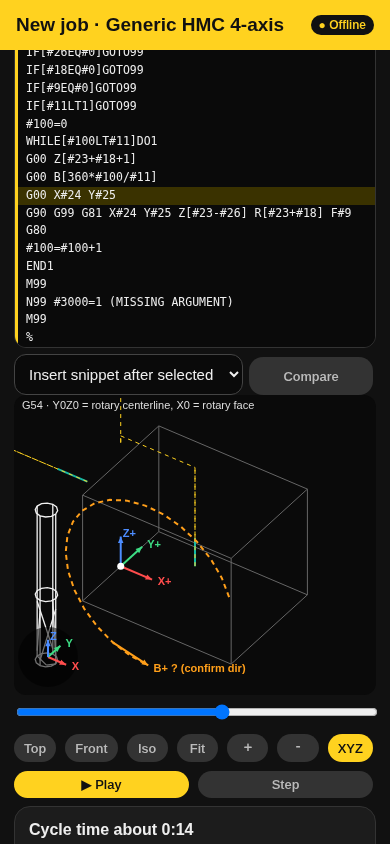
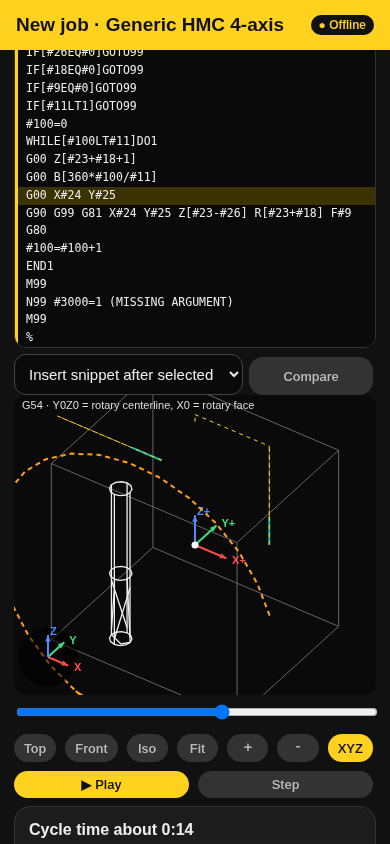
HMC: B-axis stock centered on Y rotary axis, no Z0 shift for index jobs, B out-of-stock check; gizmo shows end-on axes as dots

diff --git a/index.html b/index.html
@@ -228,7 +228,7 @@ function scrub(n){view.n=n;const s=$('#sc');if(s)s.value=n;draw();hl()}
 function play(){clearInterval(pl);let n=0;pl=setInterval(()=>{if(n>=J.M.length)return clearInterval(pl);scrub(++n)},Math.max(15,4000/J.M.length))}
 function step(){clearInterval(pl);scrub(view.n>=J.M.length?1:view.n+1)}
 
-function shiftZero(j,g){const v=k=>j.p[k]?j.p[k].v:0,o=j.lathe?[0,0,v('Z0')]:[v('Center X')||v('Start X')||0,v('Center Y')||v('Start Y')||0,v('Z0')];
+function shiftZero(j,g){if(j.op=='index')return;const v=k=>j.p[k]?j.p[k].v:0,o=j.lathe?[0,0,v('Z0')]:[v('Center X')||v('Start X')||0,v('Center Y')||v('Start Y')||0,v('Z0')];
  g.moves.forEach(m=>{m.a=m.a.map((x,i)=>x+o[i]);m.b=m.b.map((x,i)=>x+o[i])});j.stock=j.stock.map((x,i)=>x+o[i%3]);if(j.lb)j.lb={...j.lb,z:j.lb.z+o[2],L:j.lb.L-o[2]}}
 
 // ---------- Macro B interpreter (runs the edited text) — generic subset
@@ -301,7 +301,7 @@ function interp(lines,o){o=o||{};const lathe=o.lathe,M=[],alarms=[],V={};const R
 const LET=Object.fromEntries(Object.entries(ARG).map(([k,v])=>[v,k]));
 function refresh(){const st=J.stock;let r;try{r=interp(txt(),{lathe:J.lathe,start:(J.moves[0]||{a:[0,0,2]}).a,contact:mkContact(J)})}catch(e){r={moves:[],alarms:[],err:e.message}}
  J.run=r;J.M=r.err||!r.moves.length?J.moves:r.moves;
- J.M.forEach(m=>{m.out=0;if(J.rot){const H=J.p.Z0.v,D=J.p.Depth.v;if(!m.r&&Math.hypot(m.b[1],m.b[2])<H-D-1e-6)m.out=1;return}if(J.lathe?(m.b[0]<-1e-6||(!m.r&&m.b[2]<st[2]-1e-6)):(!m.r&&m.b[2]<st[2]-1e-6))m.out=1});
+ J.M.forEach(m=>{m.out=0;if(J.rot){const H=J.p.Z0.v,D=J.p.Depth.v;if(!m.r&&(J.rot=='B'?Math.hypot(m.b[0],m.b[2]):Math.hypot(m.b[1],m.b[2]))<H-D-1e-6)m.out=1;return}if(J.lathe?(m.b[0]<-1e-6||(!m.r&&m.b[2]<st[2]-1e-6)):(!m.r&&m.b[2]<st[2]-1e-6))m.out=1});
  const ch=checks(J);ch.unshift(['Program runs in simulator'+(r.err?': '+r.err:''),!r.err],['No #3000 alarm on this run'+(r.alarms.length?' (alarm '+r.alarms[0].n+': '+r.alarms[0].msg+')':''),!r.alarms.length]);
  const lt=S.tools&&S.tools.find(t=>t.n==(J.p.Tool||{}).v);ch.push(['Tool T'+(J.p.Tool||{}).v+' is in the tool library',!!lt]);
  const ok=ch.filter(c=>c[1]).length,rr=+((sv('Rapid rate (in/min)')||{v:400}).v),rs=sv('Rapid rate (in/min)'),out=J.M.filter(x=>x.out).length;J.ct=time(J.M,rr);
@@ -495,7 +495,7 @@ const _gen5=gen;gen=function(j){const p=k=>j.p[k]?j.p[k].v:0;
   L('%');L('O1400 (4TH AXIS HOLES EVERY FACE - DEMO)');L('(GENERIC FANUC-STYLE - VERIFY ROTARY DIRECTION AND CENTERLINE)');L('G17 G20 G40 G49 G80 G90 (SAFE START)');L(`T${T} M06`);L(`${offCode(p('Work offset'))} G00 X0. Y0. ${ax}0. S${p('RPM')} M03`);L('(WORK ZERO: Y0 Z0 ON ROTARY CENTERLINE)');L(`G43 H${T} Z${f4(H+1)} M08`);
   L(`G65 P9400 H${p('Faces')} X${f4(p('Hole X'))} Y${f4(p('Hole Y'))} W${f4(H)} Z${f4(p('Depth'))} R${f4(p('Clear Z'))} F${f4(p('Feed'))}`);L(`G00 Z${f4(H+1)} ${ax}0.`);L('G80 M09');L('G91 G28 Z0. (SAFE END)');L('G90 M05');L('M30');L('');
   L('O9400 (INDEX AND DRILL EVERY FACE)');[11,24,25,23,26,18,9].forEach(v=>L(`IF[#${v}EQ#0]GOTO99`));L('IF[#11LT1]GOTO99');L('#100=0');L('WHILE[#100LT#11]DO1');L(`G00 Z[#23+#18+1]`);L(`G00 ${ax}[360*#100/#11]`);L('G00 X#24 Y#25');L('G90 G99 G81 X#24 Y#25 Z[#23-#26] R[#23+#18] F#9');L('G80');L('#100=#100+1');L('END1');L('M99');L('N99 #3000=1 (MISSING ARGUMENT)');L('M99');L('%');
-  j.stock=[p('Hole X')-1,-H,-H,p('Hole X')+1,H,H];j.rot=ax;return{code:c,moves:[{a:[0,0,H+1],b:[0,0,H+1],r:1,l:7}],out:0}}
+  if(ax=='B'){const h=Math.max(H,Math.abs(p('Hole X'))+0.25);j.stock=[-h,p('Hole Y')-1,-h,h,p('Hole Y')+1,h]}else j.stock=[p('Hole X')-1,-H,-H,p('Hole X')+1,H,H];j.rot=ax;return{code:c,moves:[{a:[0,0,H+1],b:[0,0,H+1],r:1,l:7}],out:0}}
  const g=_gen5(j);if(j.tap){g.code=g.code.map(l=>l.replace(/G8[13] Z-#26 R#18( Q#17)? F#9/,'G84 Z-#26 R#18 F#9'));const st=(sv('Rigid tap style')||{v:'M29 S'}).v;
   if(/M29/.test(st)){const k=g.code.findIndex(l=>/^G65/.test(l));g.code.splice(k,0,`M29 S${p('RPM')} (RIGID TAP MODE)`)}g.code.splice(1,0,'(RIGID TAP '+p('TPI')+' TPI - FEED = RPM / TPI)')}return g};
 // interpreter: G84 + rotary display
@@ -566,7 +566,7 @@ document.addEventListener('keydown',e=>{const mod=e.ctrlKey||e.metaKey,t=e.targe
 
 // ---------- round 7: orientation triad, view gizmo, live tool position
 function origin(){const v=k=>J.p[k]?J.p[k].v||0:0;if(J.lathe)return[0,0,v('Z0')];if(J.op=='index')return[0,0,0];return[v('Center X')||v('Start X'),v('Center Y')||v('Start Y'),v('Z0')]}
-function zeroDesc(){if(J.lathe)return'X0 = centerline, Z0 = face';return({bolt:'X0Y0 = bolt-circle center',grid:'X0Y0 = first hole',face:'X0Y0 = front-left corner',index:'Y0Z0 = rotary centerline, X0 = rotary face',pbore:'X0Y0 = nominal bore center',pweb:'X0Y0 = nominal center',ppocket:'X0Y0 = nominal center',psurf:'X0Y0 = start point'}[J.op]||'X0Y0')+(J.op=='index'?'':', Z0 = top')}
+function zeroDesc(){if(J.lathe)return'X0 = centerline, Z0 = face';return({bolt:'X0Y0 = bolt-circle center',grid:'X0Y0 = first hole',face:'X0Y0 = front-left corner',index:J.rot=='B'?'X0Z0 = B rotary centerline':'Y0Z0 = rotary centerline, X0 = rotary face',pbore:'X0Y0 = nominal bore center',pweb:'X0Y0 = nominal center',ppocket:'X0Y0 = nominal center',psurf:'X0Y0 = start point'}[J.op]||'X0Y0')+(J.op=='index'?'':', Z0 = top')}
 function arrow(a,b,col,lab,px){const p=Array.isArray(a)&&a.length==3?P(a):a,q=Array.isArray(b)&&b.length==3&&!px?P(b):b;ctx.strokeStyle=ctx.fillStyle=col;ctx.lineWidth=2;ctx.setLineDash([]);ctx.beginPath();ctx.moveTo(p[0],p[1]);ctx.lineTo(q[0],q[1]);ctx.stroke();
  const an=Math.atan2(q[1]-p[1],q[0]-p[0]),h=7;ctx.beginPath();ctx.moveTo(q[0],q[1]);ctx.lineTo(q[0]-h*Math.cos(an-0.4),q[1]-h*Math.sin(an-0.4));ctx.lineTo(q[0]-h*Math.cos(an+0.4),q[1]-h*Math.sin(an+0.4));ctx.closePath();ctx.fill();
  ctx.font='bold 11px -apple-system,sans-serif';ctx.fillText(lab,q[0]+4*Math.cos(an)+2,q[1]+4*Math.sin(an)+4)}
@@ -586,7 +586,7 @@ const _draw7=draw;draw=function(){_draw7();if(!J||!cv)return;const flat=J.lathe&
  // fixed corner gizmo
  const gx=34,gy=262,g=22;ctx.fillStyle='#0008';ctx.beginPath();ctx.arc(gx,gy,30,0,7);ctx.fill();
  if(flat){arrow([gx,gy],[gx,gy-g],C3.X,'X',1);arrow([gx,gy],[gx+g,gy],C3.Z,'Z',1)}
- else{const c=P([0,0,0]);[['X',[1,0,0]],['Y',[0,1,0]],['Z',[0,0,1]]].forEach(([k,d])=>{const p=P(d);let dx=p[0]-c[0],dy=p[1]-c[1];const m=Math.hypot(dx,dy)||1,f=g*Math.min(1,m/view.s);arrow([gx,gy],[gx+dx/m*f,gy+dy/m*f],C3[k],k,1)})}
+ else{const c=P([0,0,0]);[['X',[1,0,0]],['Y',[0,1,0]],['Z',[0,0,1]]].forEach(([k,d])=>{const p=P(d);let dx=p[0]-c[0],dy=p[1]-c[1];const m=Math.hypot(dx,dy)||1;if(m/view.s<0.3){ctx.fillStyle=C3[k];ctx.beginPath();ctx.arc(gx,gy,4,0,7);ctx.fill();ctx.font='bold 11px -apple-system,sans-serif';ctx.fillText(k+(dy*0>0?'':'⊙'),gx+6,gy+14);return}arrow([gx,gy],[gx+dx/m*g,gy+dy/m*g],C3[k],k,1)})}
  // live tool position relative to work offset
  const el=$('#tpos');if(el){const m=(J.M||[])[view.n-1],t=m?m.b:(J.M&&J.M[0]?J.M[0].a:null);if(t){const f=x=>(x>=0?' ':'')+x.toFixed(4);
   el.innerHTML=J.lathe?`Tool at <b>X${f(t[0]*2)}</b> (Ø) <b>Z${f(t[2]-o[2])}</b> · line ${m?m.l+1:'—'}`:`Tool at <b style="color:${C3.X}">X${f(t[0]-o[0])}</b> <b style="color:${C3.Y}">Y${f(t[1]-o[1])}</b> <b style="color:${C3.Z}">Z${f(t[2]-o[2])}</b>${(J.rot||rotAx())?` <b style="color:#ff9f1a">${J.rot||rotAx()}${(m&&m.ang||0).toFixed(1)}°</b>`:''} · line ${m?m.l+1:'—'}`}}};
